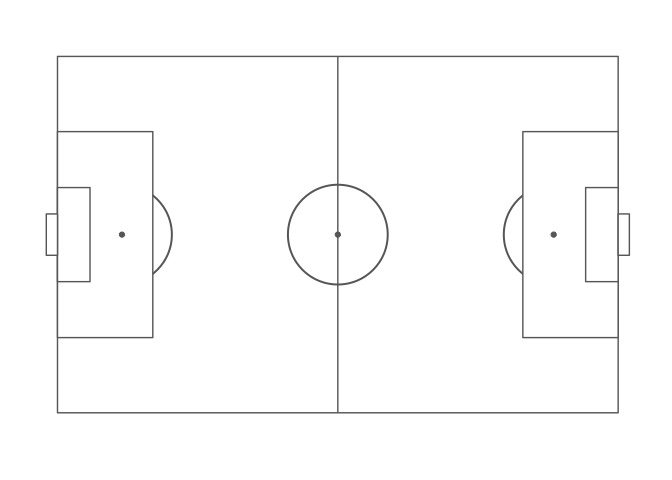
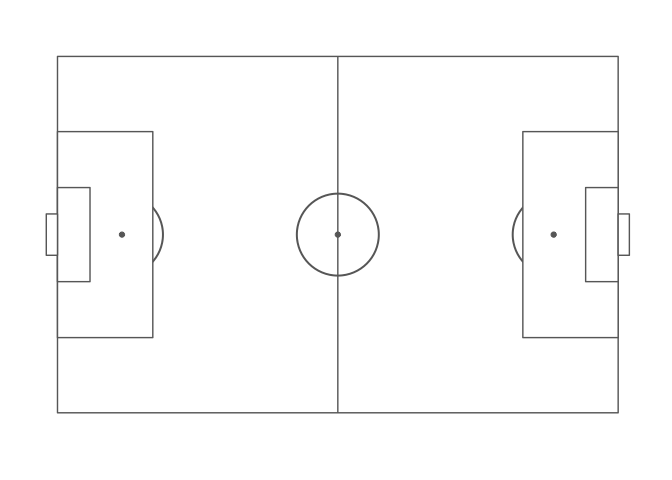
Lock penalty arc size to pitch spec
Fixes #8.

Changed region(s): [[0.4062, 0.375, 0.5938, 0.5938], [0.2188, 0.4062, 0.2812, 0.5625], [0.75, 0.4062, 0.7812, 0.5625]]

diff --git a/README.md b/README.md
@@ -131,7 +131,7 @@ ggplot(passes_rescaled) +
           "Statsbomb co-ordinates")
 ```
 
-![](man/figures/README-example_shots_sb-1.png)<!-- -->
+![](man/figures/README-example_passes_sb-1.png)<!-- -->
 
 #### Custom data
 
@@ -147,7 +147,7 @@ pitch_custom <- list(
   penalty_box_width = 50,
   six_yard_box_length = 8,
   six_yard_box_width = 26,
-  penalty_spot_distance = 20,
+  penalty_spot_distance = 16,
   goal_width = 12,
   origin_x = 0,
   origin_y = 0

diff --git a/NEWS.md b/NEWS.md
@@ -1,4 +1,11 @@
-# ggsoccer 0.1.3.9000 (in progress)
+# ggsoccer 0.1.4.9000 (in progress)
+
+* Link penalty box arc to pitch specification
+  * Fixes a previous issue in which the edge of a circle could be seen poking
+    out from behind the pitch (see #8).
+
+
+# ggsoccer 0.1.3
 
 * Generate pitch markings from a generic specification
   * This makes ggsoccer compatible with any data provider
